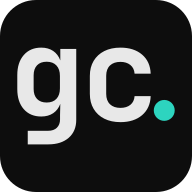
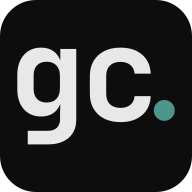
feat: update accent color

Changed region(s): [[0.7812, 0.5, 0.9375, 0.6562]]

diff --git a/src/styles/_variables.css b/src/styles/_variables.css
@@ -5,8 +5,8 @@
   --border: #2a2a2a;
   --text: #e8e8e8;
   --muted: #888888;
-  --accent: #2dd4bf;
-  --accent-dim: #14b8a6;
+  --accent: #4e958c;
+  --accent-dim: #448a81;
   --on-accent: #0d0d0d;
   --font: system-ui, -apple-system, 'Segoe UI', sans-serif;
   --font-mono: 'JetBrains Mono', 'Fira Code', 'Cascadia Code', monospace;
@@ -24,8 +24,8 @@
   --border: #e0e0e0;
   --text: #111111;
   --muted: #555555;
-  --accent: #0f766e;
-  --accent-dim: #115e59;
+  --accent: #2a645e;
+  --accent-dim: #1f4c47;
   --on-accent: #fff;
 }
 
